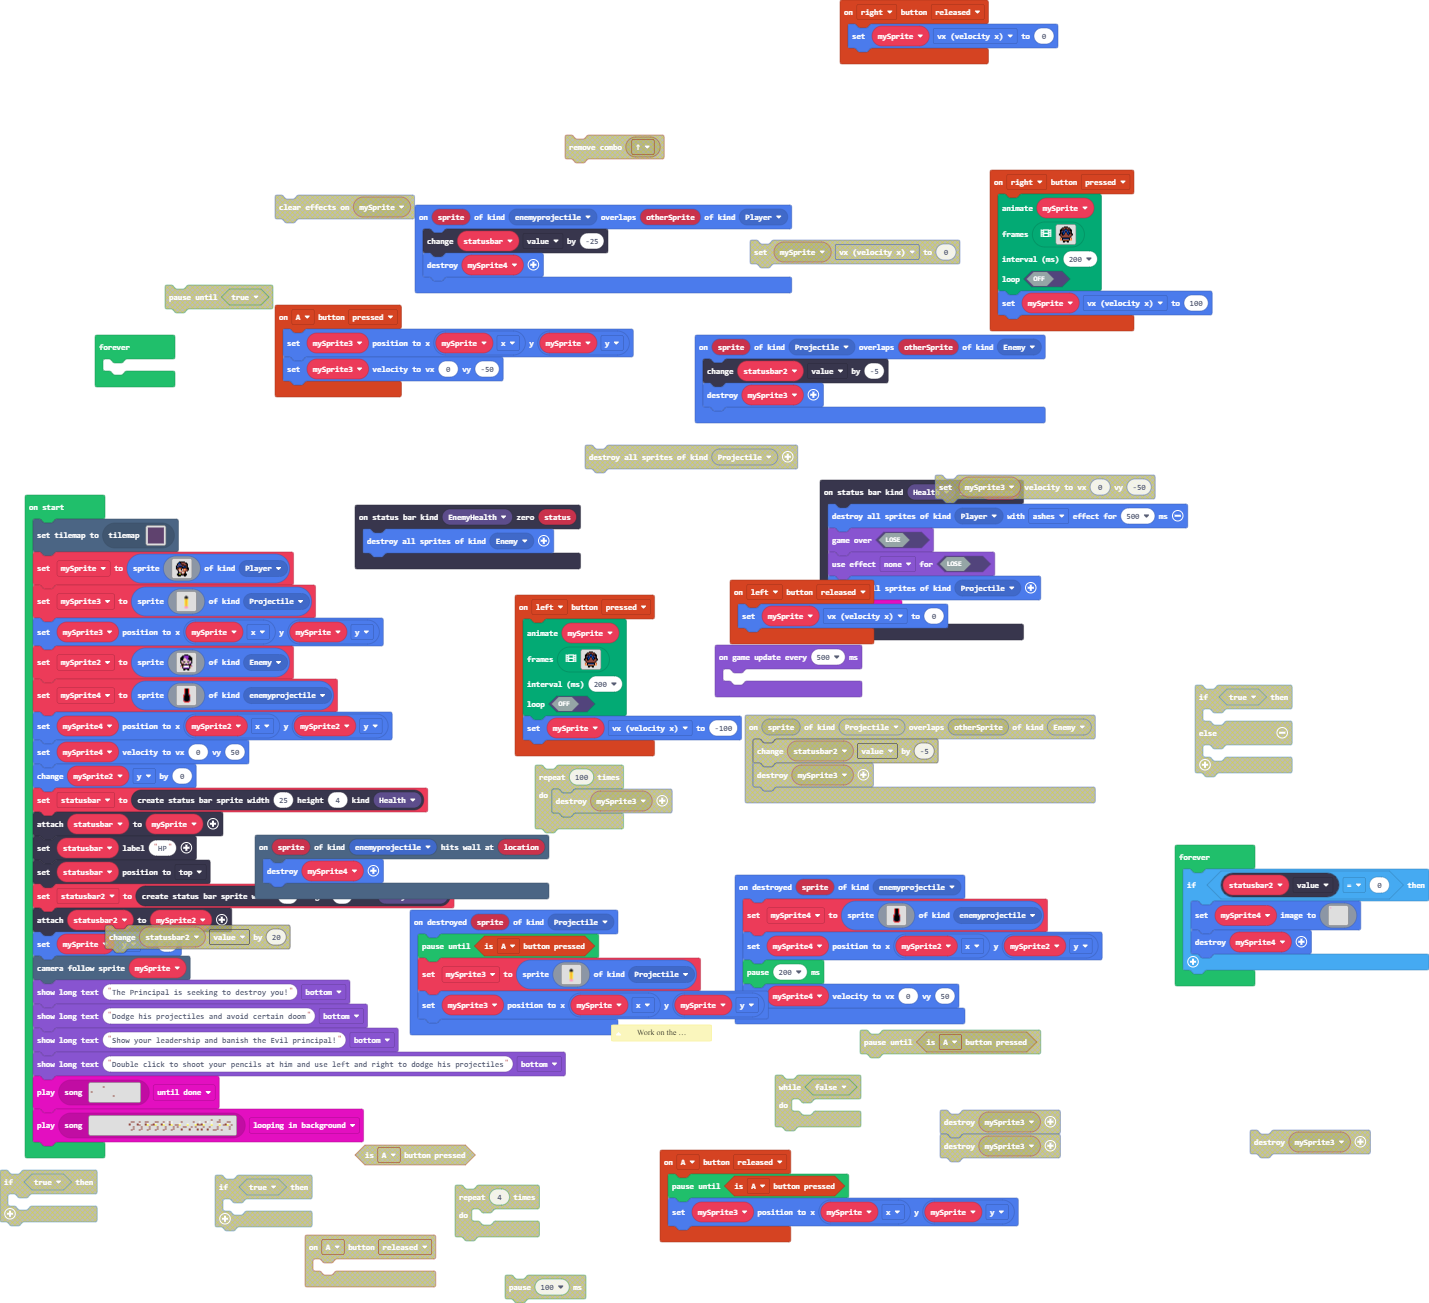
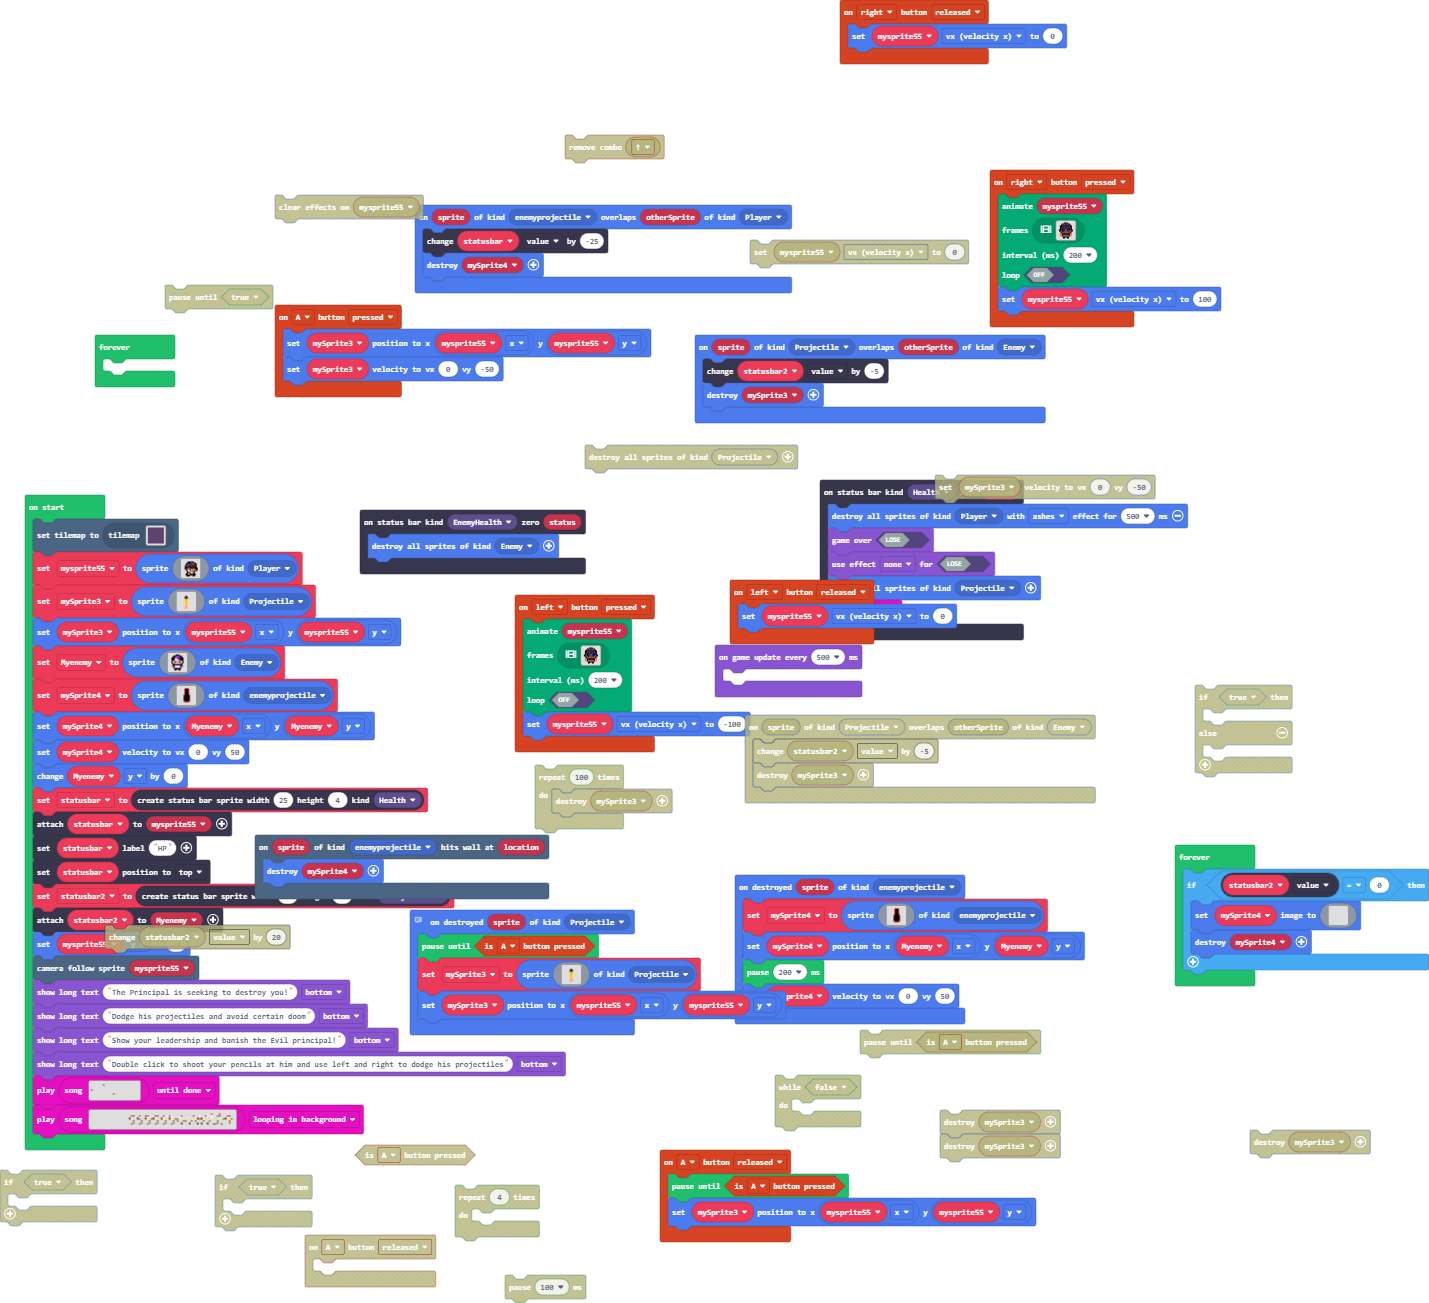
Update pxt.json, main.blocks, main.ts

diff --git a/main.ts b/main.ts
@@ -3,12 +3,12 @@ namespace SpriteKind {
     export const enemyprojectile = SpriteKind.create()
 }
 controller.A.onEvent(ControllerButtonEvent.Pressed, function () {
-    mySprite3.setPosition(mySprite.x, mySprite.y)
+    mySprite3.setPosition(mysprite55.x, mysprite55.y)
     mySprite3.setVelocity(0, -50)
 })
 controller.left.onEvent(ControllerButtonEvent.Pressed, function () {
     animation.runImageAnimation(
-    mySprite,
+    mysprite55,
     [img`
         . . . . . . f f f f . . . . . . 
         . . . . f f e e e e f f . . . . 
@@ -81,13 +81,13 @@ controller.left.onEvent(ControllerButtonEvent.Pressed, function () {
     200,
     false
     )
-    mySprite.vx = -100
+    mysprite55.vx = -100
 })
 controller.right.onEvent(ControllerButtonEvent.Released, function () {
-    mySprite.vx = 0
+    mysprite55.vx = 0
 })
 controller.left.onEvent(ControllerButtonEvent.Released, function () {
-    mySprite.vx = 0
+    mysprite55.vx = 0
 })
 statusbars.onZero(StatusBarKind.EnemyHealth, function (status) {
     sprites.destroyAllSpritesOfKind(SpriteKind.Enemy)
@@ -101,7 +101,7 @@ statusbars.onZero(StatusBarKind.Health, function (status) {
 })
 controller.right.onEvent(ControllerButtonEvent.Pressed, function () {
     animation.runImageAnimation(
-    mySprite,
+    mysprite55,
     [img`
         . . . . . . f f f f . . . . . . 
         . . . . f f e e e e f f . . . . 
@@ -174,11 +174,11 @@ controller.right.onEvent(ControllerButtonEvent.Pressed, function () {
     200,
     false
     )
-    mySprite.vx = 100
+    mysprite55.vx = 100
 })
 controller.A.onEvent(ControllerButtonEvent.Released, function () {
     pauseUntil(() => controller.A.isPressed())
-    mySprite3.setPosition(mySprite.x, mySprite.y)
+    mySprite3.setPosition(mysprite55.x, mysprite55.y)
 })
 scene.onHitWall(SpriteKind.enemyprojectile, function (sprite, location) {
     sprites.destroy(mySprite4)
@@ -202,7 +202,7 @@ sprites.onDestroyed(SpriteKind.enemyprojectile, function (sprite) {
         . . . . . . 2 2 2 2 2 . . . . . 
         . . . . . . . . . . . . . . . . 
         `, SpriteKind.enemyprojectile)
-    mySprite4.setPosition(mySprite2.x, mySprite2.y)
+    mySprite4.setPosition(Myenemy.x, Myenemy.y)
     pause(200)
     mySprite4.setVelocity(0, 50)
 })
@@ -210,9 +210,7 @@ sprites.onOverlap(SpriteKind.enemyprojectile, SpriteKind.Player, function (sprit
     statusbar.value += -25
     sprites.destroy(mySprite4)
 })
-/**
- * Work on the few glitches left and add more detailing to sprites and add other things to make it better
- */
+// Work on the few glitches left and add more detailing to sprites and add other things to make it better
 sprites.onDestroyed(SpriteKind.Projectile, function (sprite) {
     pauseUntil(() => controller.A.isPressed())
     mySprite3 = sprites.create(img`
@@ -232,7 +230,7 @@ sprites.onDestroyed(SpriteKind.Projectile, function (sprite) {
         . . . . . . 3 3 3 . . . . . . 
         . . . . . . . . . . . . . . . 
         `, SpriteKind.Projectile)
-    mySprite3.setPosition(mySprite.x, mySprite.y)
+    mySprite3.setPosition(mysprite55.x, mysprite55.y)
 })
 sprites.onOverlap(SpriteKind.Projectile, SpriteKind.Enemy, function (sprite, otherSprite) {
     statusbar2.value += -5
@@ -241,11 +239,11 @@ sprites.onOverlap(SpriteKind.Projectile, SpriteKind.Enemy, function (sprite, oth
 let statusbar2: StatusBarSprite = null
 let statusbar: StatusBarSprite = null
 let mySprite4: Sprite = null
-let mySprite2: Sprite = null
+let Myenemy: Sprite = null
 let mySprite3: Sprite = null
-let mySprite: Sprite = null
+let mysprite55: Sprite = null
 tiles.setCurrentTilemap(tilemap`level1`)
-mySprite = sprites.create(img`
+mysprite55 = sprites.create(img`
     . . . . . . . . . . . . . . . . 
     . . . . . f f f f f f . . . . . 
     . . . . f 8 f e e e e f f . . . 
@@ -280,8 +278,8 @@ mySprite3 = sprites.create(img`
     . . . . . . 3 3 3 . . . . . . 
     . . . . . . . . . . . . . . . 
     `, SpriteKind.Projectile)
-mySprite3.setPosition(mySprite.x, mySprite.y)
-mySprite2 = sprites.create(img`
+mySprite3.setPosition(mysprite55.x, mysprite55.y)
+Myenemy = sprites.create(img`
     . . . . f f f f . . . . 
     . . f f a a a a f f . . 
     . f f a a a a a a f f . 
@@ -317,17 +315,17 @@ mySprite4 = sprites.create(img`
     . . . . . . 2 2 2 2 2 . . . . . 
     . . . . . . . . . . . . . . . . 
     `, SpriteKind.enemyprojectile)
-mySprite4.setPosition(mySprite2.x, mySprite2.y)
+mySprite4.setPosition(Myenemy.x, Myenemy.y)
 mySprite4.setVelocity(0, 50)
-mySprite2.y += 0
+Myenemy.y += 0
 statusbar = statusbars.create(25, 4, StatusBarKind.Health)
-statusbar.attachToSprite(mySprite)
+statusbar.attachToSprite(mysprite55)
 statusbar.setLabel("HP")
 statusbar.positionDirection(CollisionDirection.Top)
 statusbar2 = statusbars.create(80, 4, StatusBarKind.EnemyHealth)
-statusbar2.attachToSprite(mySprite2)
-mySprite.y = 99
-scene.cameraFollowSprite(mySprite)
+statusbar2.attachToSprite(Myenemy)
+mysprite55.y = 99
+scene.cameraFollowSprite(mysprite55)
 game.showLongText("The Principal is seeking to destroy you!", DialogLayout.Bottom)
 game.showLongText("Dodge his projectiles and avoid certain doom", DialogLayout.Bottom)
 game.showLongText("Show your leadership and banish the Evil principal!", DialogLayout.Bottom)
